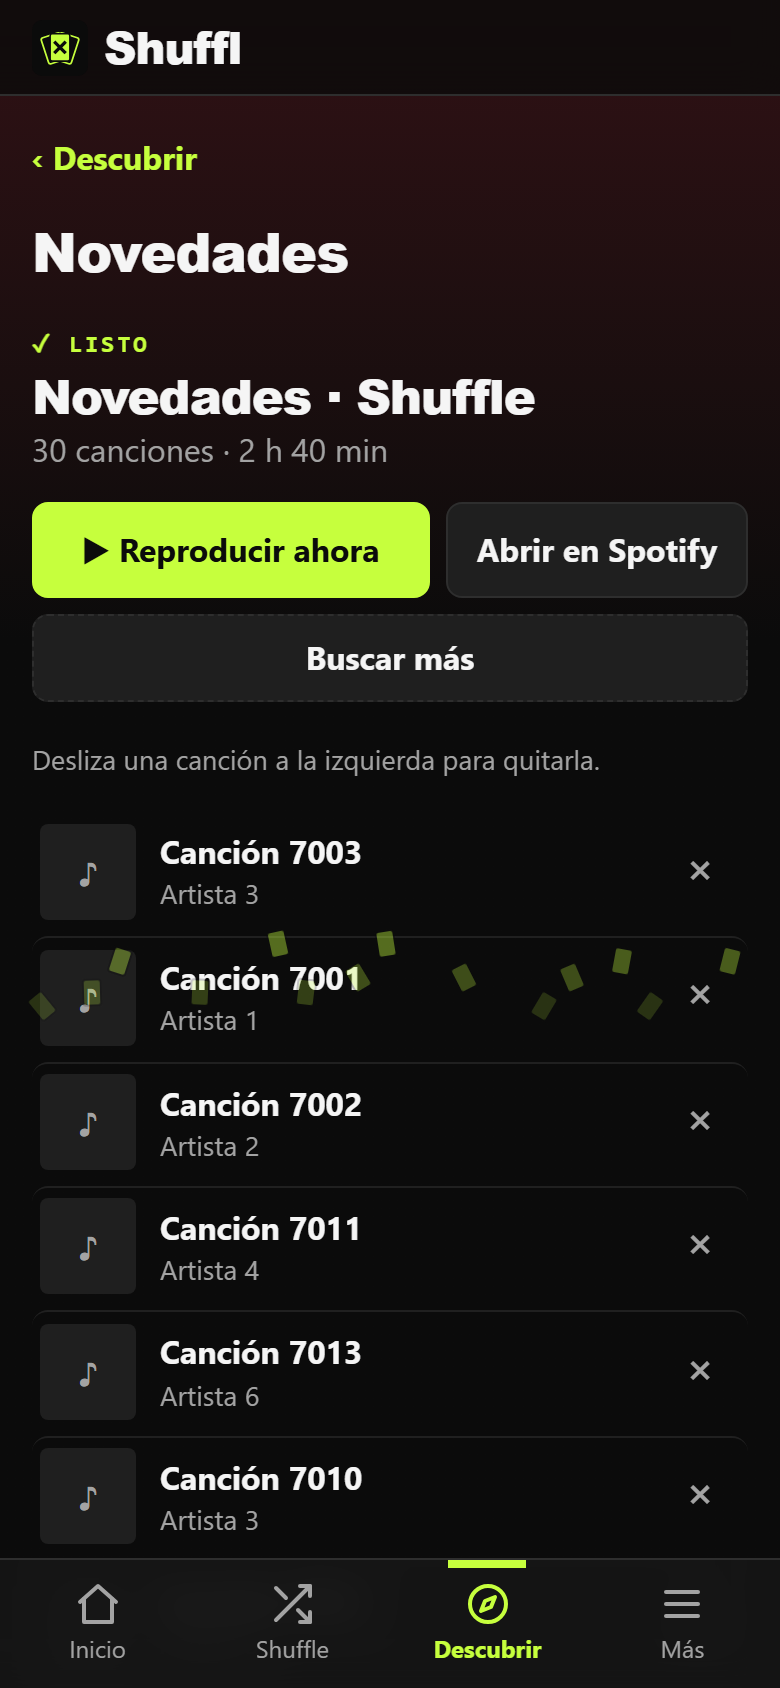
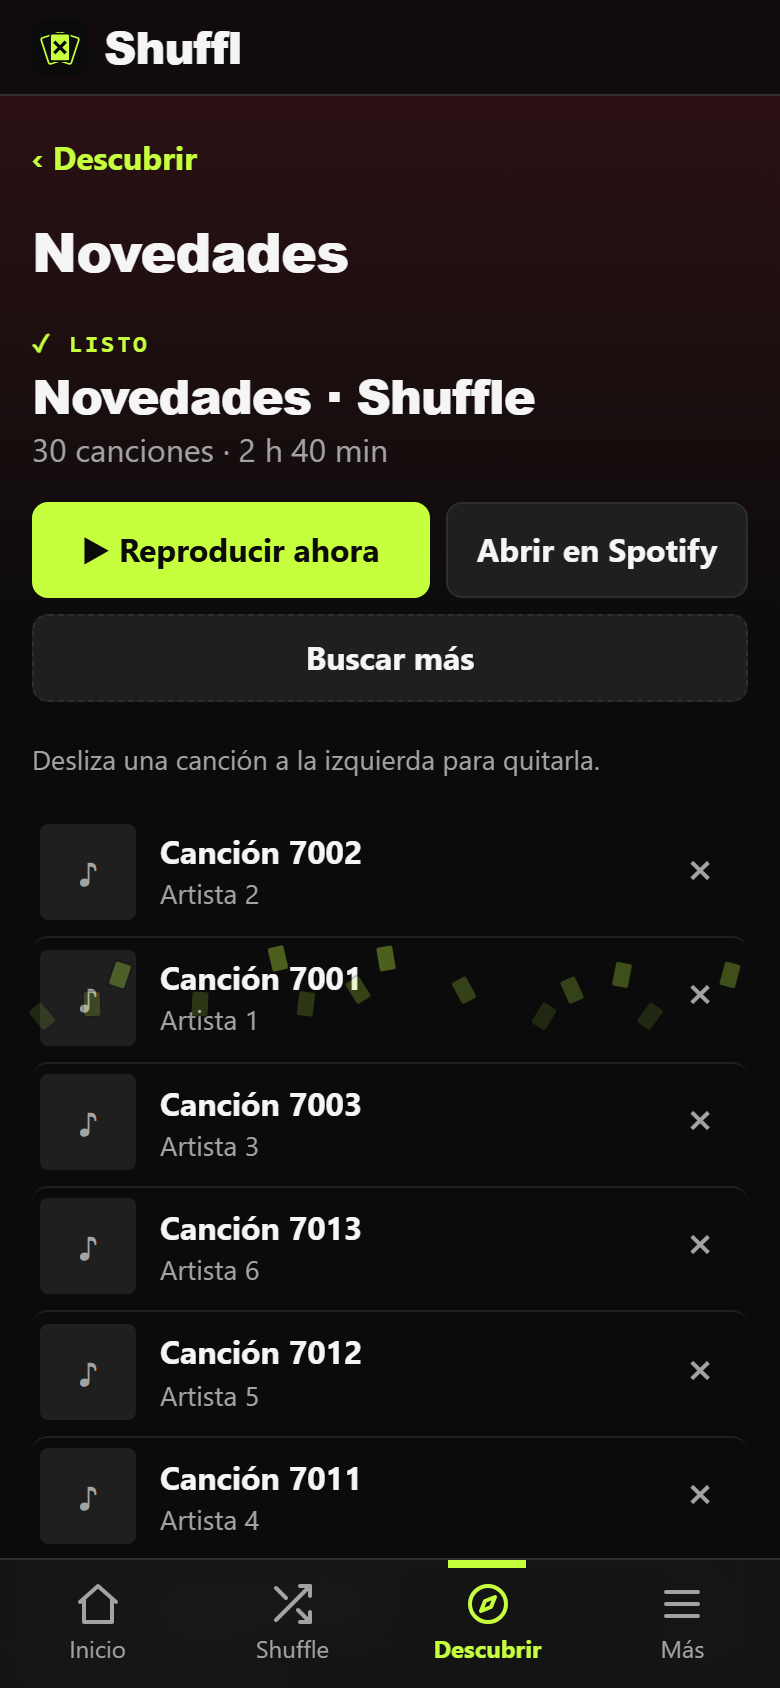
fix: «Volver» sale aunque no se pueda guardar lo quitado (revisión, ronda 3)
Si la playlist ya no es de Shuffl o se quitaron todas las canciones,
reintentar no lo arregla: ya no queda nada pendiente y «Volver» sale.
Con otra tarea en marcha, «Volver» no cancela el guardado automático.

diff --git a/js/app.js b/js/app.js
@@ -964,12 +964,18 @@ function renderResult(container, status, o) {
     if (!pending) return;
     const v = ++rev;
     const uris = tracks.map((x) => x.uri);
-    if (!uris.length) throw new UserError(t('errEmpty'), 'errEmpty');
+    // Errores que reintentar no arregla (la quitaste toda, o ya no es de Shuffl): no queda nada que guardar ahí.
+    if (!uris.length) { pending = false; throw new UserError(t('errEmpty'), 'errEmpty'); }
     status.phase('saving');
-    await withWriteLock(async () => {
-      await assertStillAppPlaylist(o.playlistId);
-      await overwritePlaylist(o.playlistId, uris, status);
-    });
+    try {
+      await withWriteLock(async () => {
+        await assertStillAppPlaylist(o.playlistId);
+        await overwritePlaylist(o.playlistId, uris, status);
+      });
+    } catch (e) {
+      if (e instanceof UserError && e.code === 'playlistGone') pending = false;
+      throw e;
+    }
     if (rev === v) pending = false;
   };
   const saveRemovals = () => {
@@ -978,6 +984,7 @@ function renderResult(container, status, o) {
   };
   const back = () => {
     if (!pending) { o.onBack?.(); return; }
+    if (S.busy) return;
     clearTimeout(saveTimer);
     task(status, writeRemovals, 'remove').then(() => { if (!pending) o.onBack?.(); });
   };

diff --git a/docs/registro/2026-11-27-v1.3.2-revision-seguridad.md b/docs/registro/2026-11-27-v1.3.2-revision-seguridad.md
@@ -32,7 +32,18 @@ Las correcciones de la ronda 1 están bien. Sin hallazgos críticos.
 
 | # | Gravedad | Hallazgo | Arreglo |
 | --- | --- | --- | --- |
-| I-R1 | Importante | Regresión de I1:  comprobaba que no hubiera otra tarea y aplicaba el cambio 220 ms después, al acabar la animación. Si en ese rato empezaba un guardado, la canción desaparecía de la lista pero seguía en Spotify | El cambio se aplica en el mismo instante de la comprobación y solo se difiere la animación. Además, un contador de versión: si se quita otra canción mientras se guarda, sigue pendiente. Test e2e |
-| M-R1 | Menor | En «Me gusta sin playlist», la lista de playlists se tomaba antes de actualizarla |  va primero |
+| I-R1 | Importante | Regresión de I1: `go()` comprobaba que no hubiera otra tarea y aplicaba el cambio 220 ms después, al acabar la animación. Si en ese rato empezaba un guardado, la canción desaparecía de la lista pero seguía en Spotify | El cambio se aplica en el mismo instante de la comprobación y solo se difiere la animación. Además, un contador de versión: si se quita otra canción mientras se guarda, sigue pendiente. Test e2e |
+| M-R1 | Menor | En «Me gusta sin playlist», la lista de playlists se tomaba antes de actualizarla | `ensureFreshLibrary()` va primero |
 | M-R2 | Menor | La Prueba completa preguntaba el dispositivo aunque no se fuera a reproducir, y cancelar se veía como «sin dispositivo» | Solo pregunta si va a reproducir; cancelar salta el paso |
 | M-R3 | Menor | «Volver» dejaba el guardado en marcha con el formulario a la vista | Guarda primero y vuelve al terminar; si falla, se queda con el error y «Reintentar» |
+
+## Ronda 3
+
+Las correcciones de la ronda 2 están bien (`go()` en el mismo tick, contador `rev`, `ensureFreshLibrary` primero, `willPlay`/`cancelled`).
+
+| # | Gravedad | Hallazgo | Arreglo |
+| --- | --- | --- | --- |
+| I-R3 | Importante | Si guardar lo quitado fallaba con un error que reintentar no arregla (playlist quitada desde otro dispositivo, o todas las canciones quitadas), «Volver» repetía el error y no salía nunca | Con esos dos errores no queda nada que guardar: se marca como no pendiente y «Volver» sale. Test e2e |
+| M-R4 | Menor | «Volver» con otra tarea en marcha cancelaba el guardado automático sin hacer nada | Con otra tarea en marcha, «Volver» no hace nada y el guardado automático sigue |
+
+Con esto se cierra la revisión: sin hallazgos críticos ni importantes abiertos.
